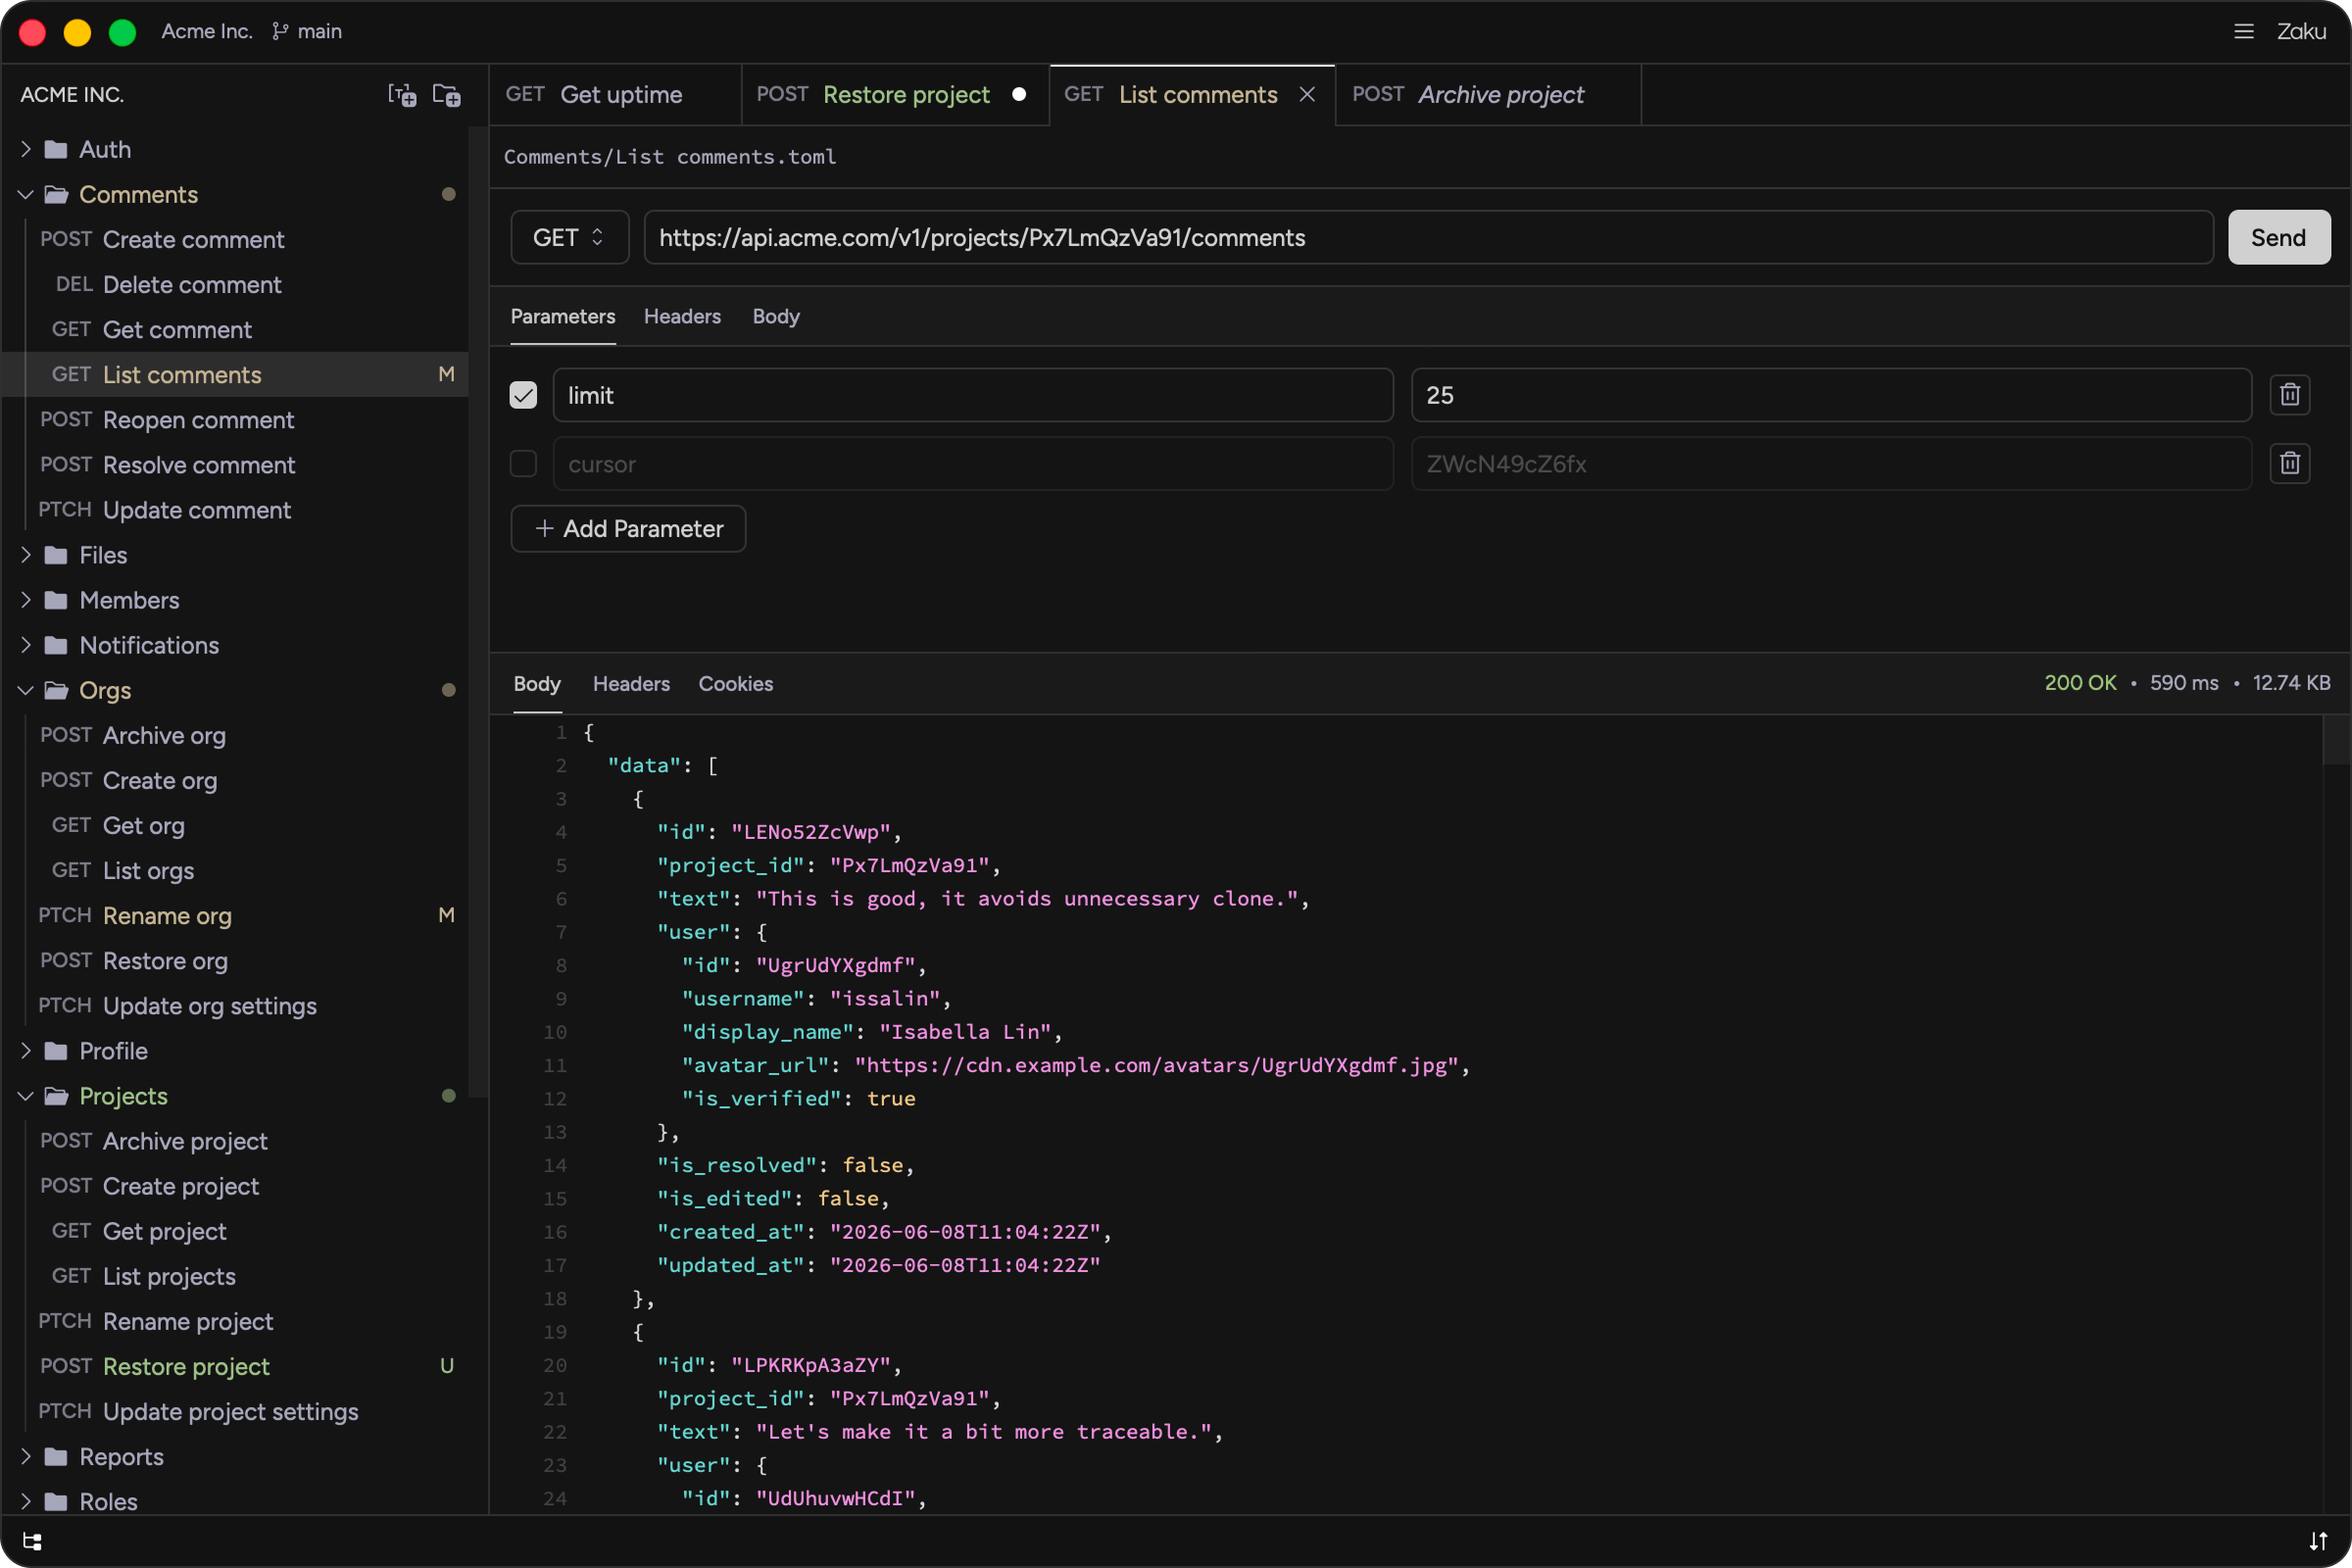
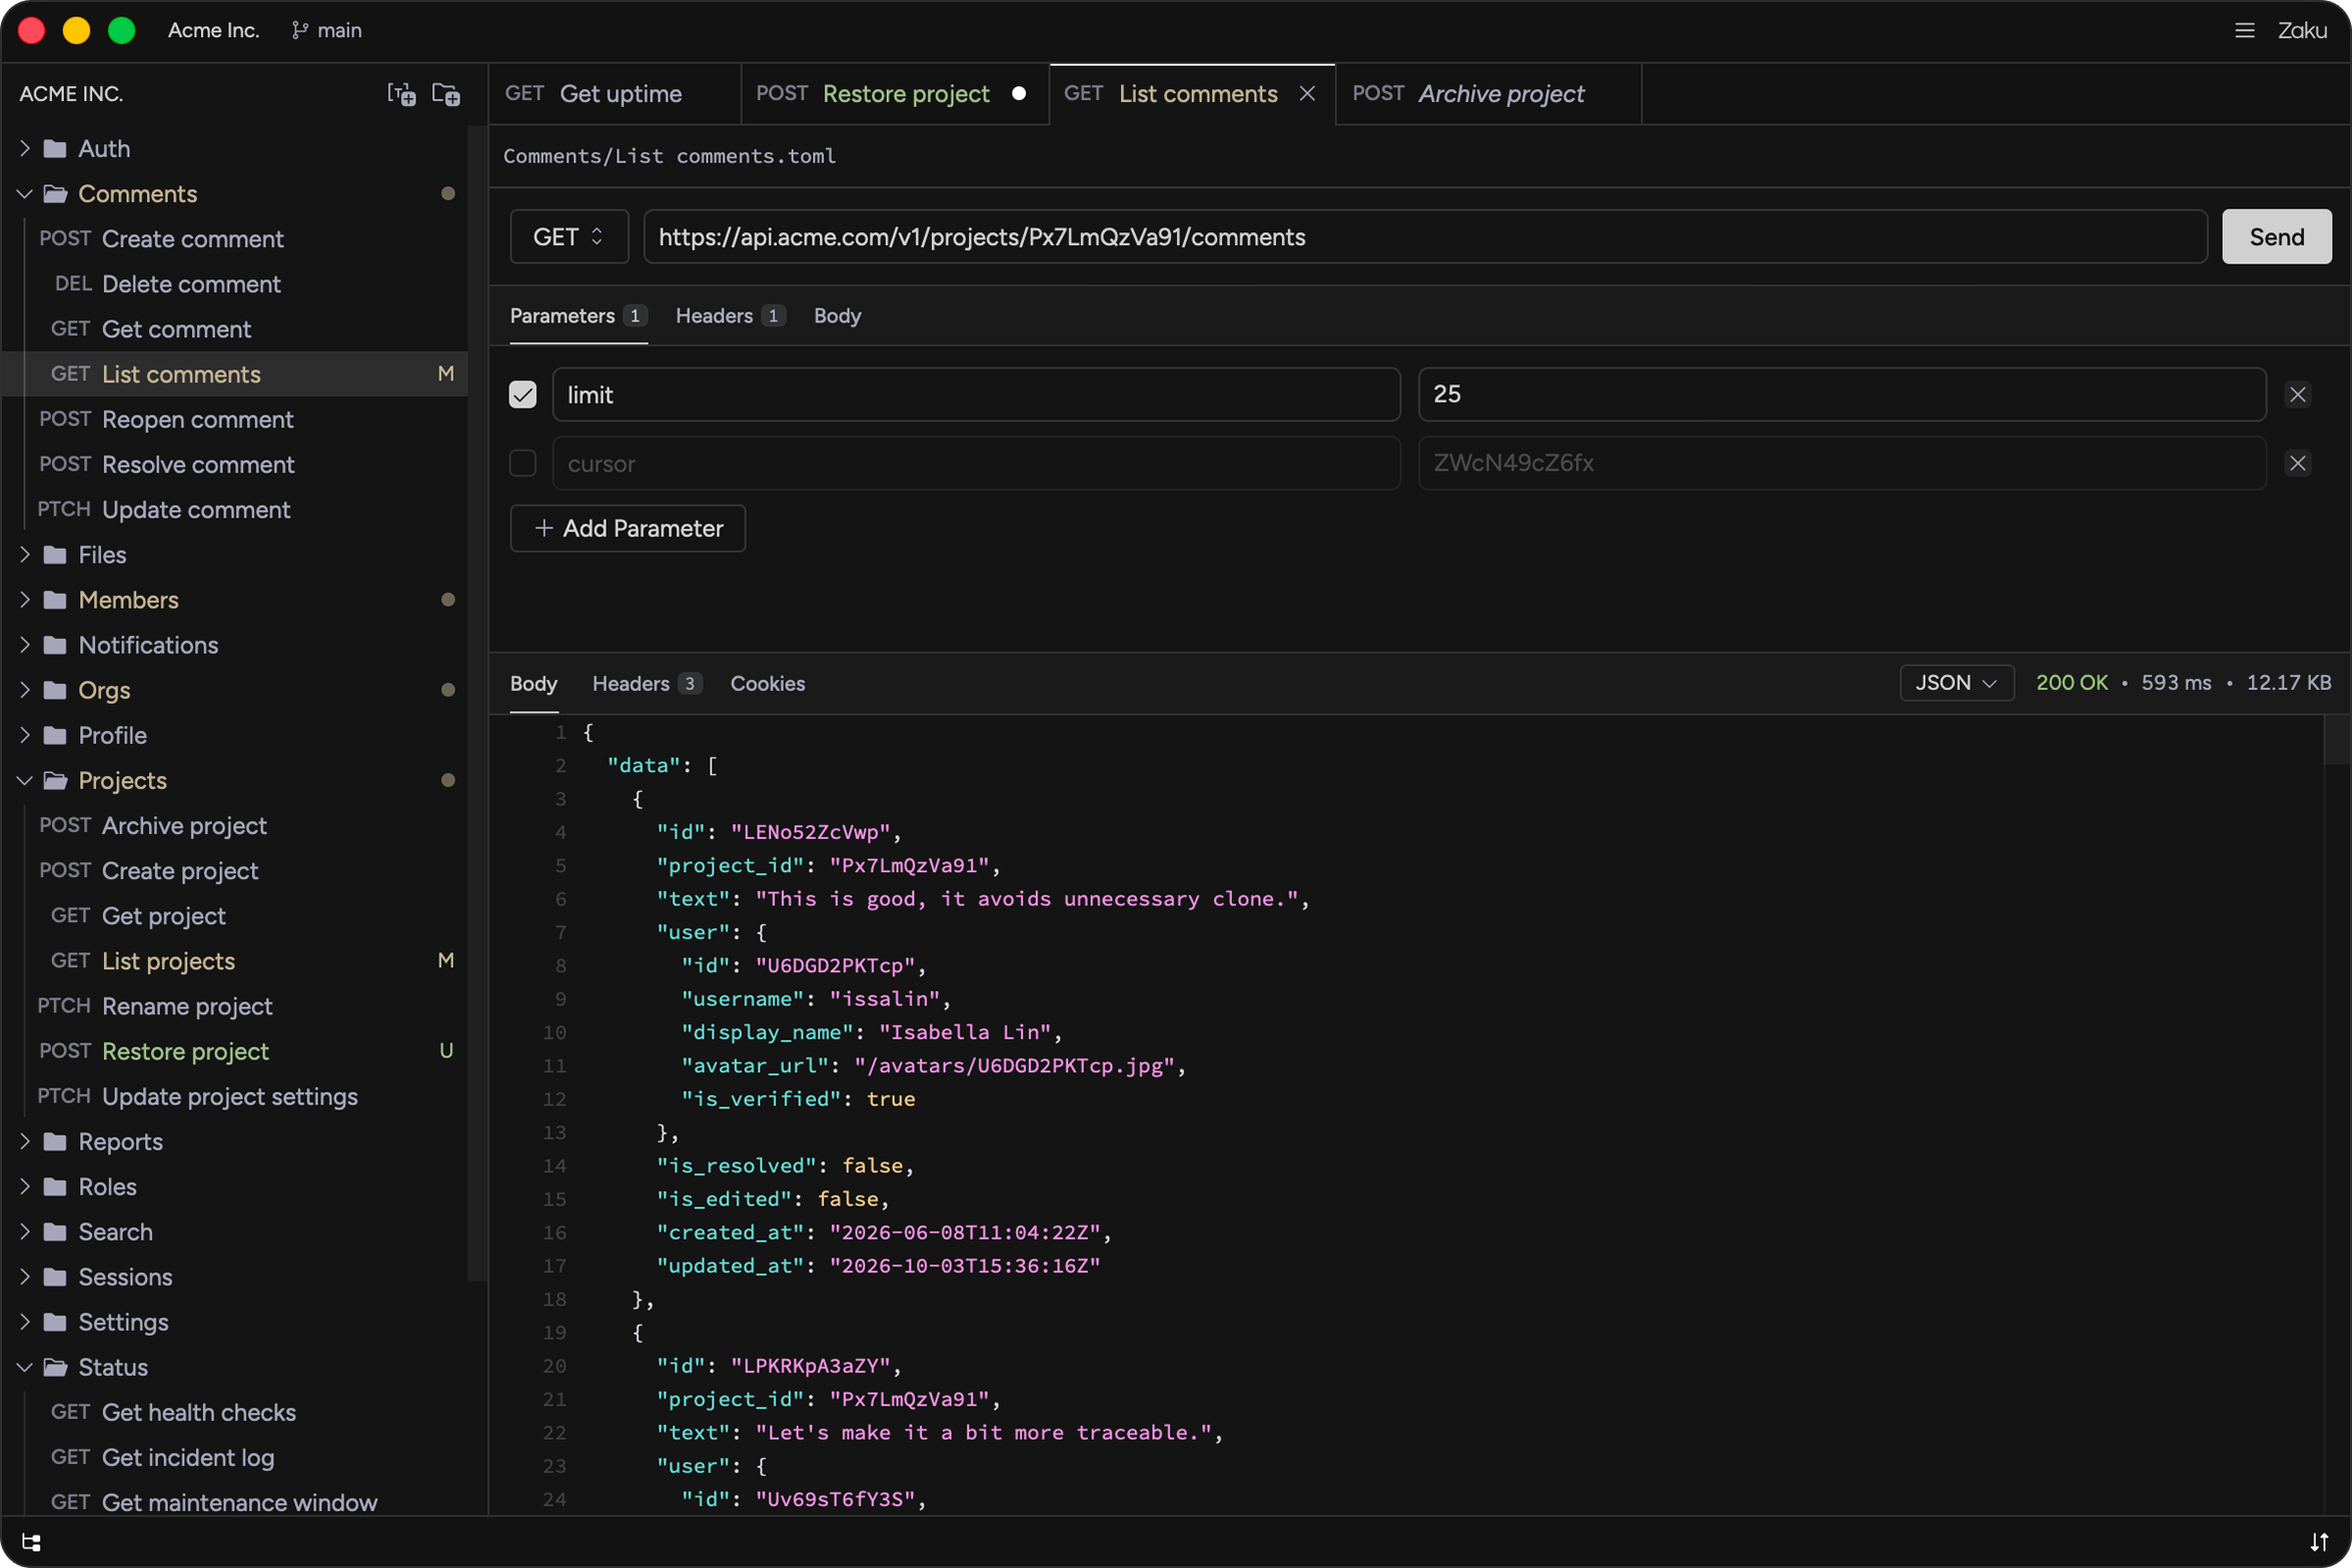
Update README for stable release

diff --git a/README.md b/README.md
@@ -8,9 +8,6 @@
   <img alt="Zaku" width="100%" src="./assets/readme/zaku_screenshot_dark.png">
 </p>
 
-> [!WARNING]
-> Zaku is currently in beta. Expect some rough edges.
-
 ## Installation
 
 <h3>
@@ -25,8 +22,10 @@
 Install using the shell script:
 
 ```sh
-curl -fsSL https://raw.githubusercontent.com/buildzaku/zaku/main/script/install.sh | sh -s -- --channel beta
+curl -fsSL https://zaku.dev/install.sh | sh
 ```
+
+Or download the tarball for [x86_64](https://api.zaku.dev/releases/stable/latest/linux-x86_64/download) or [aarch64](https://api.zaku.dev/releases/stable/latest/linux-aarch64/download).
 
 <h3>
   <picture>
@@ -37,7 +36,7 @@ curl -fsSL https://raw.githubusercontent.com/buildzaku/zaku/main/script/install.
   <span>macOS</span>
 </h3>
 
-Download the DMG for [Apple silicon](https://api.zaku.dev/releases/beta/latest/macos-aarch64/download) or [Intel](https://api.zaku.dev/releases/beta/latest/macos-x86_64/download). Requires macOS 14 or later.
+Download the DMG for [Apple Silicon](https://api.zaku.dev/releases/stable/latest/macos-aarch64/download) or [Intel Chip](https://api.zaku.dev/releases/stable/latest/macos-x86_64/download). Requires macOS 14 or later.
 
 After copying Zaku to Applications, open Terminal and run:
 
@@ -56,7 +55,7 @@ This is required because Zaku isn't signed yet. Otherwise, macOS will refuse to 
   <span>Windows</span>
 </h3>
 
-Download the installer for [ARM64](https://api.zaku.dev/releases/beta/latest/windows-aarch64/download) or [x64](https://api.zaku.dev/releases/beta/latest/windows-x86_64/download). Requires Windows 11.
+Download the installer for [Intel/AMD](https://api.zaku.dev/releases/stable/latest/windows-x86_64/download) or [ARM64](https://api.zaku.dev/releases/stable/latest/windows-aarch64/download). Requires Windows 11.
 
 The installer is not signed yet. If Microsoft Defender SmartScreen appears, select **More info**, then **Run anyway**.
 
